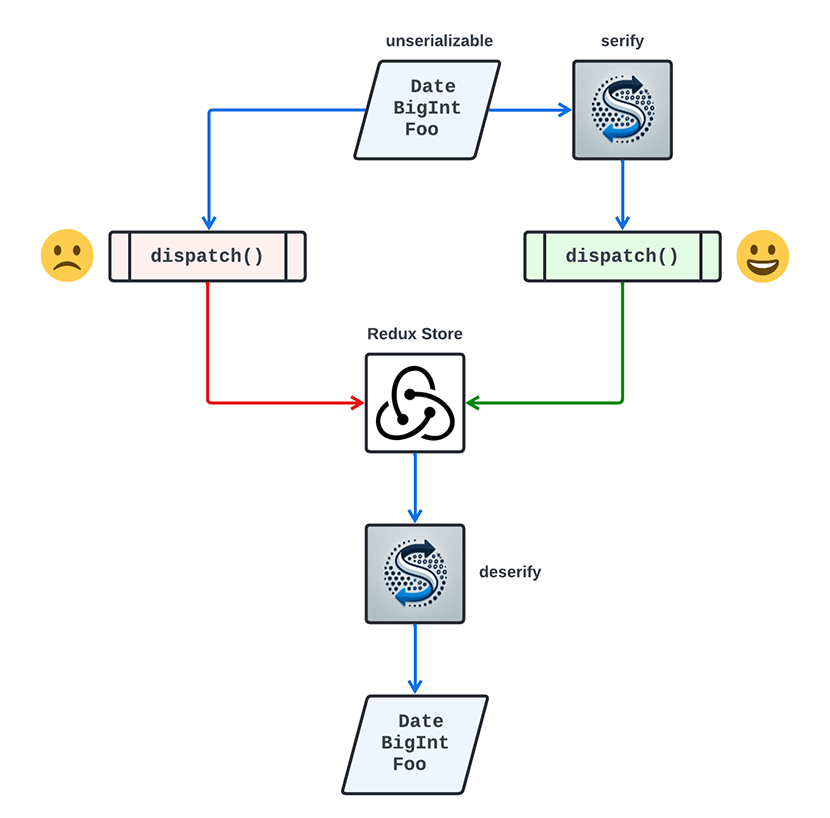
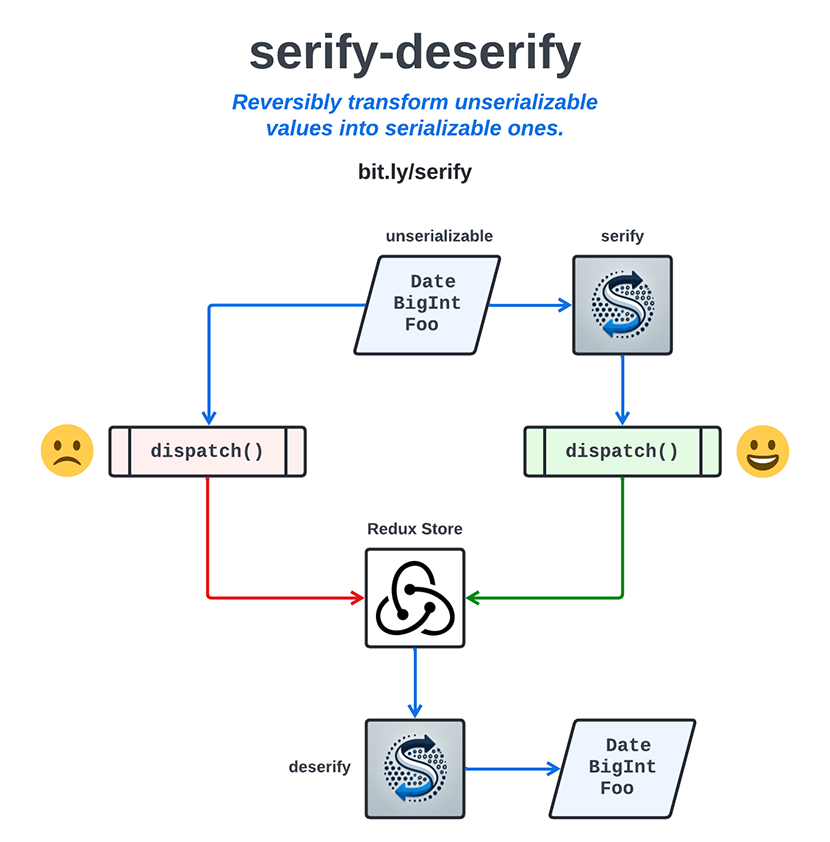
updated readme

Changed region(s): [[0.0301, 0.0306, 0.9639, 0.7946], [0.3313, 0.8252, 0.8133, 0.978], [0.8133, 0.8557, 0.8434, 0.9474]]

diff --git a/README.md b/README.md
@@ -1,5 +1,3 @@
-<p align="center" style="font-size: 4em">serify-deserify</p>
-
 <p align="center"><img src="./assets/flowchart.png"></p>
 
 **serify** - reversibly transform an unserializable value into a serializable one
